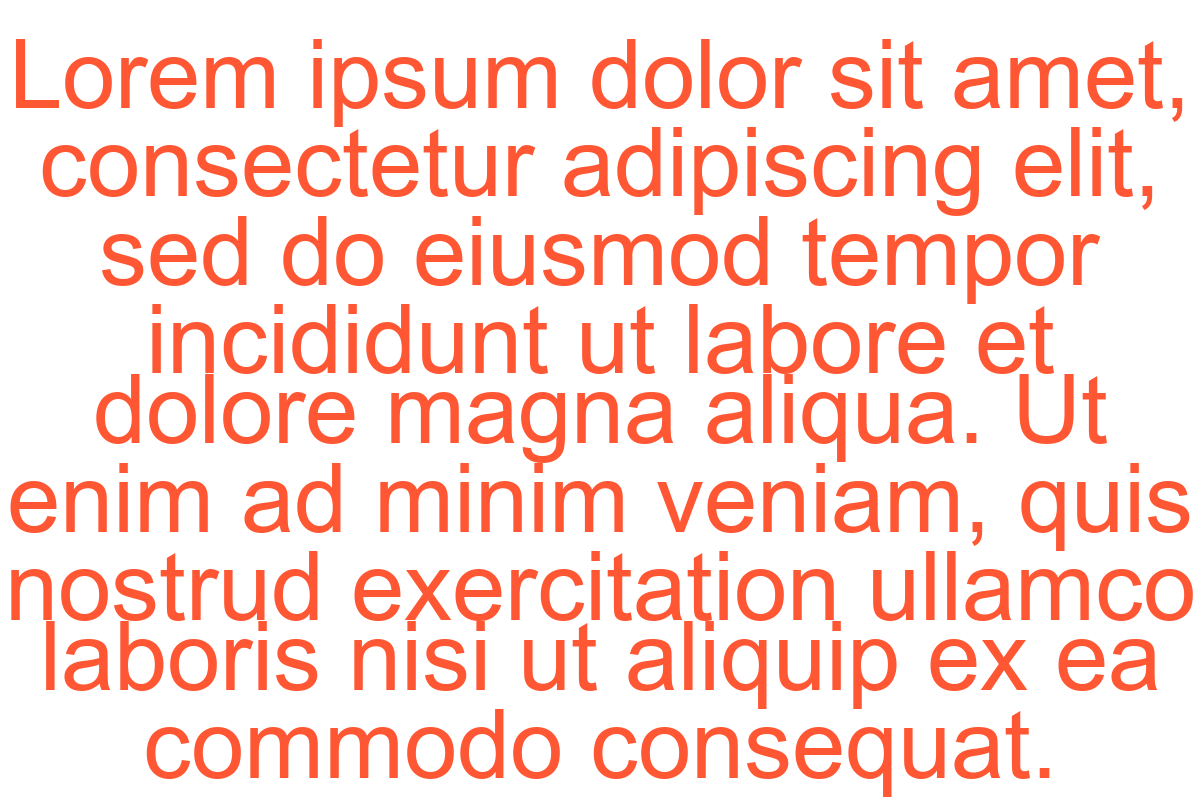
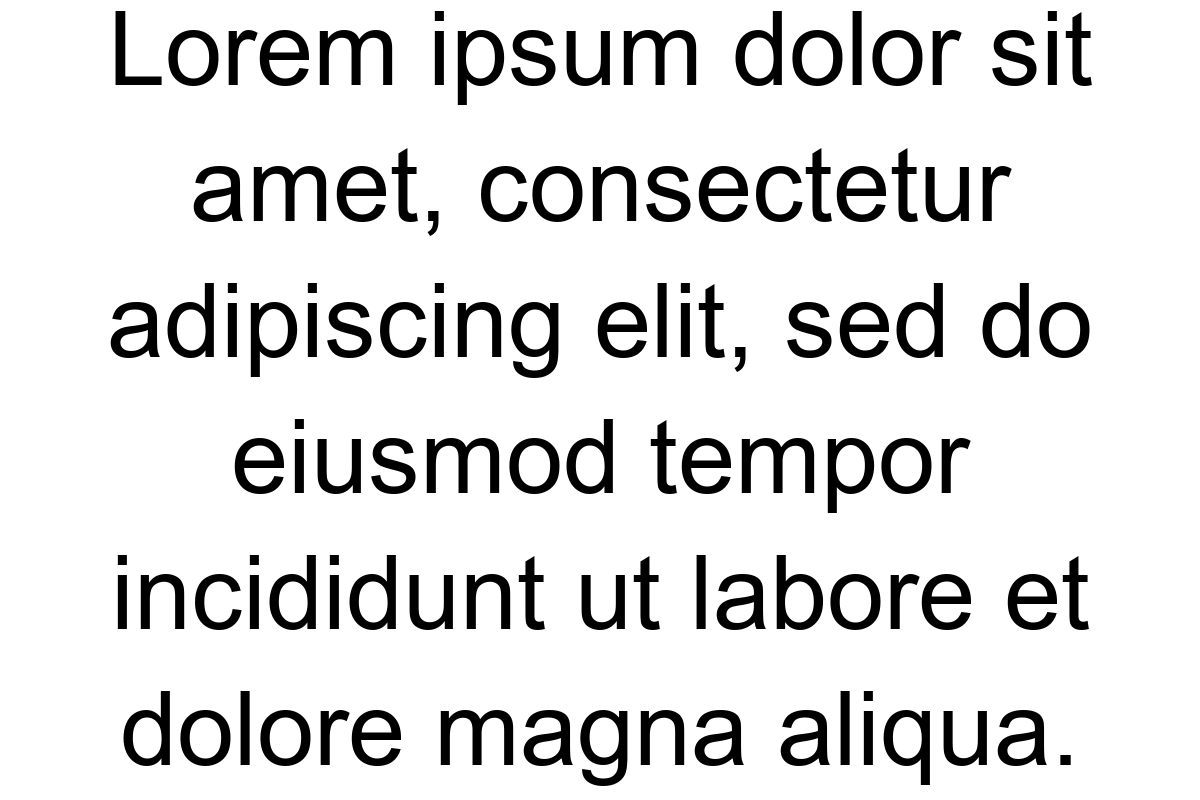
fixes #4

diff --git a/image_util.py b/image_util.py
@@ -1,10 +1,26 @@
 from PIL import Image, ImageDraw, ImageFont
 
-def create_text_image(text, color, height, width, file_name):
+def create_text_image(text: str, height: int, width: int, file_name: str, color="#000000": str):
+    def create_text_image(text: str, height: int, width: int, file_name: str, color="#000000"):
+        """
+        Creates an image with the specified text centered within the given dimensions and saves it as a PNG file.
+        Args:
+            text (str): The text to be displayed on the image.
+            height (int): The height of the image in pixels.
+            width (int): The width of the image in pixels.
+            file_name (str): The name of the file to save the image as, including the file extension (e.g., 'image.png').
+            color (str, optional): The color of the text in hexadecimal format (default is black, "#000000").
+        Raises:
+            ValueError: If the text cannot fit into the image at the minimum font size.
+        Returns:
+            None
+        """
+
+
     # Create a blank transparent image
     image = Image.new("RGBA", (width, height), (255, 255, 255, 0))
     draw = ImageDraw.Draw(image)
-    
+
     # Font parameters
     min_font_size = 1
     max_font_size = 500  # Set an upper limit for font size
@@ -13,9 +29,13 @@ def create_text_image(text, color, height, width, file_name):
     best_wrapped_text = None
     best_total_height = None
 
+    # Load the font once to avoid repetitive loading
+    font_path = "arial.ttf"  # Ensure this font is available on your system
+
     while min_font_size <= max_font_size:
         font_size = (min_font_size + max_font_size) // 2
-        font = ImageFont.truetype("arial.ttf", size=font_size)
+        font = ImageFont.truetype(font_path, size=font_size)
+
         fits, wrapped_text, total_height = does_text_fit(draw, text, font, width, height)
         if fits:
             # This font size fits, try a bigger one
@@ -32,24 +52,30 @@ def create_text_image(text, color, height, width, file_name):
         raise ValueError("Text cannot fit into the image at the minimum font size.")
 
     # Use the best font size
-    font = ImageFont.truetype("arial.ttf", size=best_font_size)
+    font = ImageFont.truetype(font_path, size=best_font_size)
+    ascent, descent = font.getmetrics()
+    line_spacing = int(best_font_size * 0.2)  # 20% of font size
+
+    # Adjust total height to include the descent of the last line
+    best_total_height += descent
 
     # Center position for the text
     y_offset = (height - best_total_height) / 2
 
     # Draw the text on the image
     for line in best_wrapped_text:
-        text_bbox = draw.textbbox((0, 0), line, font=font)
-        text_width = text_bbox[2] - text_bbox[0]
+        text_width = font.getlength(line)
         x = (width - text_width) / 2  # Center horizontally
         draw.text((x, y_offset), line, fill=color, font=font)
-        line_height = text_bbox[3] - text_bbox[1]
-        y_offset += line_height  # Move down for the next line
-    
+        y_offset += ascent + descent + line_spacing  # Move down for the next line
+
     # Save the image
     image.save(file_name, "PNG")
 
 def does_text_fit(draw, text, font, width, height):
+    ascent, descent = font.getmetrics()
+    line_spacing = int(font.size * 0.2)  # 20% of font size
+
     # Wrap the text
     wrapped_text = []
     lines = text.splitlines()
@@ -58,32 +84,43 @@ def does_text_fit(draw, text, font, width, height):
         current_line = ""
         for word in words:
             test_line = f"{current_line} {word}".strip()
-            text_bbox = draw.textbbox((0, 0), test_line, font=font)
-            text_width = text_bbox[2] - text_bbox[0]
+            text_width = font.getlength(test_line)
             if text_width <= width:
                 current_line = test_line
             else:
-                if current_line == "":
+                if not current_line:
                     # Single word longer than width, cannot fit
                     return False, None, None
                 wrapped_text.append(current_line)
                 current_line = word
-        if current_line != "":
+        if current_line:
             wrapped_text.append(current_line)
 
     # Calculate total height for the wrapped text
-    line_heights = [draw.textbbox((0, 0), line, font=font)[3] - draw.textbbox((0, 0), line, font=font)[1] for line in wrapped_text]
-    total_height = sum(line_heights)
+    num_lines = len(wrapped_text)
+    total_height = (ascent + descent) * num_lines + line_spacing * (num_lines - 1)
 
     # Check if any line exceeds width
-    any_line_too_wide = any(draw.textbbox((0, 0), line, font=font)[2] - draw.textbbox((0, 0), line, font=font)[0] > width for line in wrapped_text)
+    any_line_too_wide = any(font.getlength(line) > width for line in wrapped_text)
 
     # Return whether text fits, the wrapped_text, and total_height
     fits = (total_height <= height) and not any_line_too_wide
     return fits, wrapped_text, total_height
 
 # Example usage:
-create_text_image("Lorem ipsum dolor sit amet, consectetur adipiscing elit, sed do eiusmod tempor incididunt ut labore et dolore magna aliqua. Ut enim ad minim veniam, quis nostrud exercitation ullamco laboris nisi ut aliquip ex ea commodo consequat.", "#FF5733", 800, 1200, "test_1.png")
-create_text_image("Lorem ipsum dolor sit amet, consectetur adipiscing elit, sed do eiusmod tempor incididunt ut labore et dolore magna aliqua. Ut enim ad minim veniam, quis nostrud exercitation ullamco laboris nisi ut aliquip ex ea commodo consequat.", "#FF5733", 800, 400, "test_2.png")
-create_text_image("Lorem ipsum dolor sit amet", "#FF5733", 800, 1200, "test_3.png")
-create_text_image("Lorem ipsum dolor sit amet", "#FF5733", 800, 400, "test_4.png")
+create_text_image(
+    "Lorem ipsum dolor sit amet, consectetur adipiscing elit, sed do eiusmod tempor incididunt ut labore et dolore magna aliqua.",
+    800,
+    1200,
+    "test_1.png",
+    "#000000"
+)
+create_text_image(
+    "Lorem ipsum dolor sit amet, consectetur adipiscing elit, sed do eiusmod tempor incididunt ut labore et dolore magna aliqua.",
+    800,
+    400,
+    "test_2.png",
+    "#FF5733"
+)
+create_text_image("Lorem ipsum dolor sit amet", 800, 1200, "test_3.png")
+create_text_image("Lorem ipsum dolor sit amet", 800, 400, "test_4.png", "#FFFFFF")
